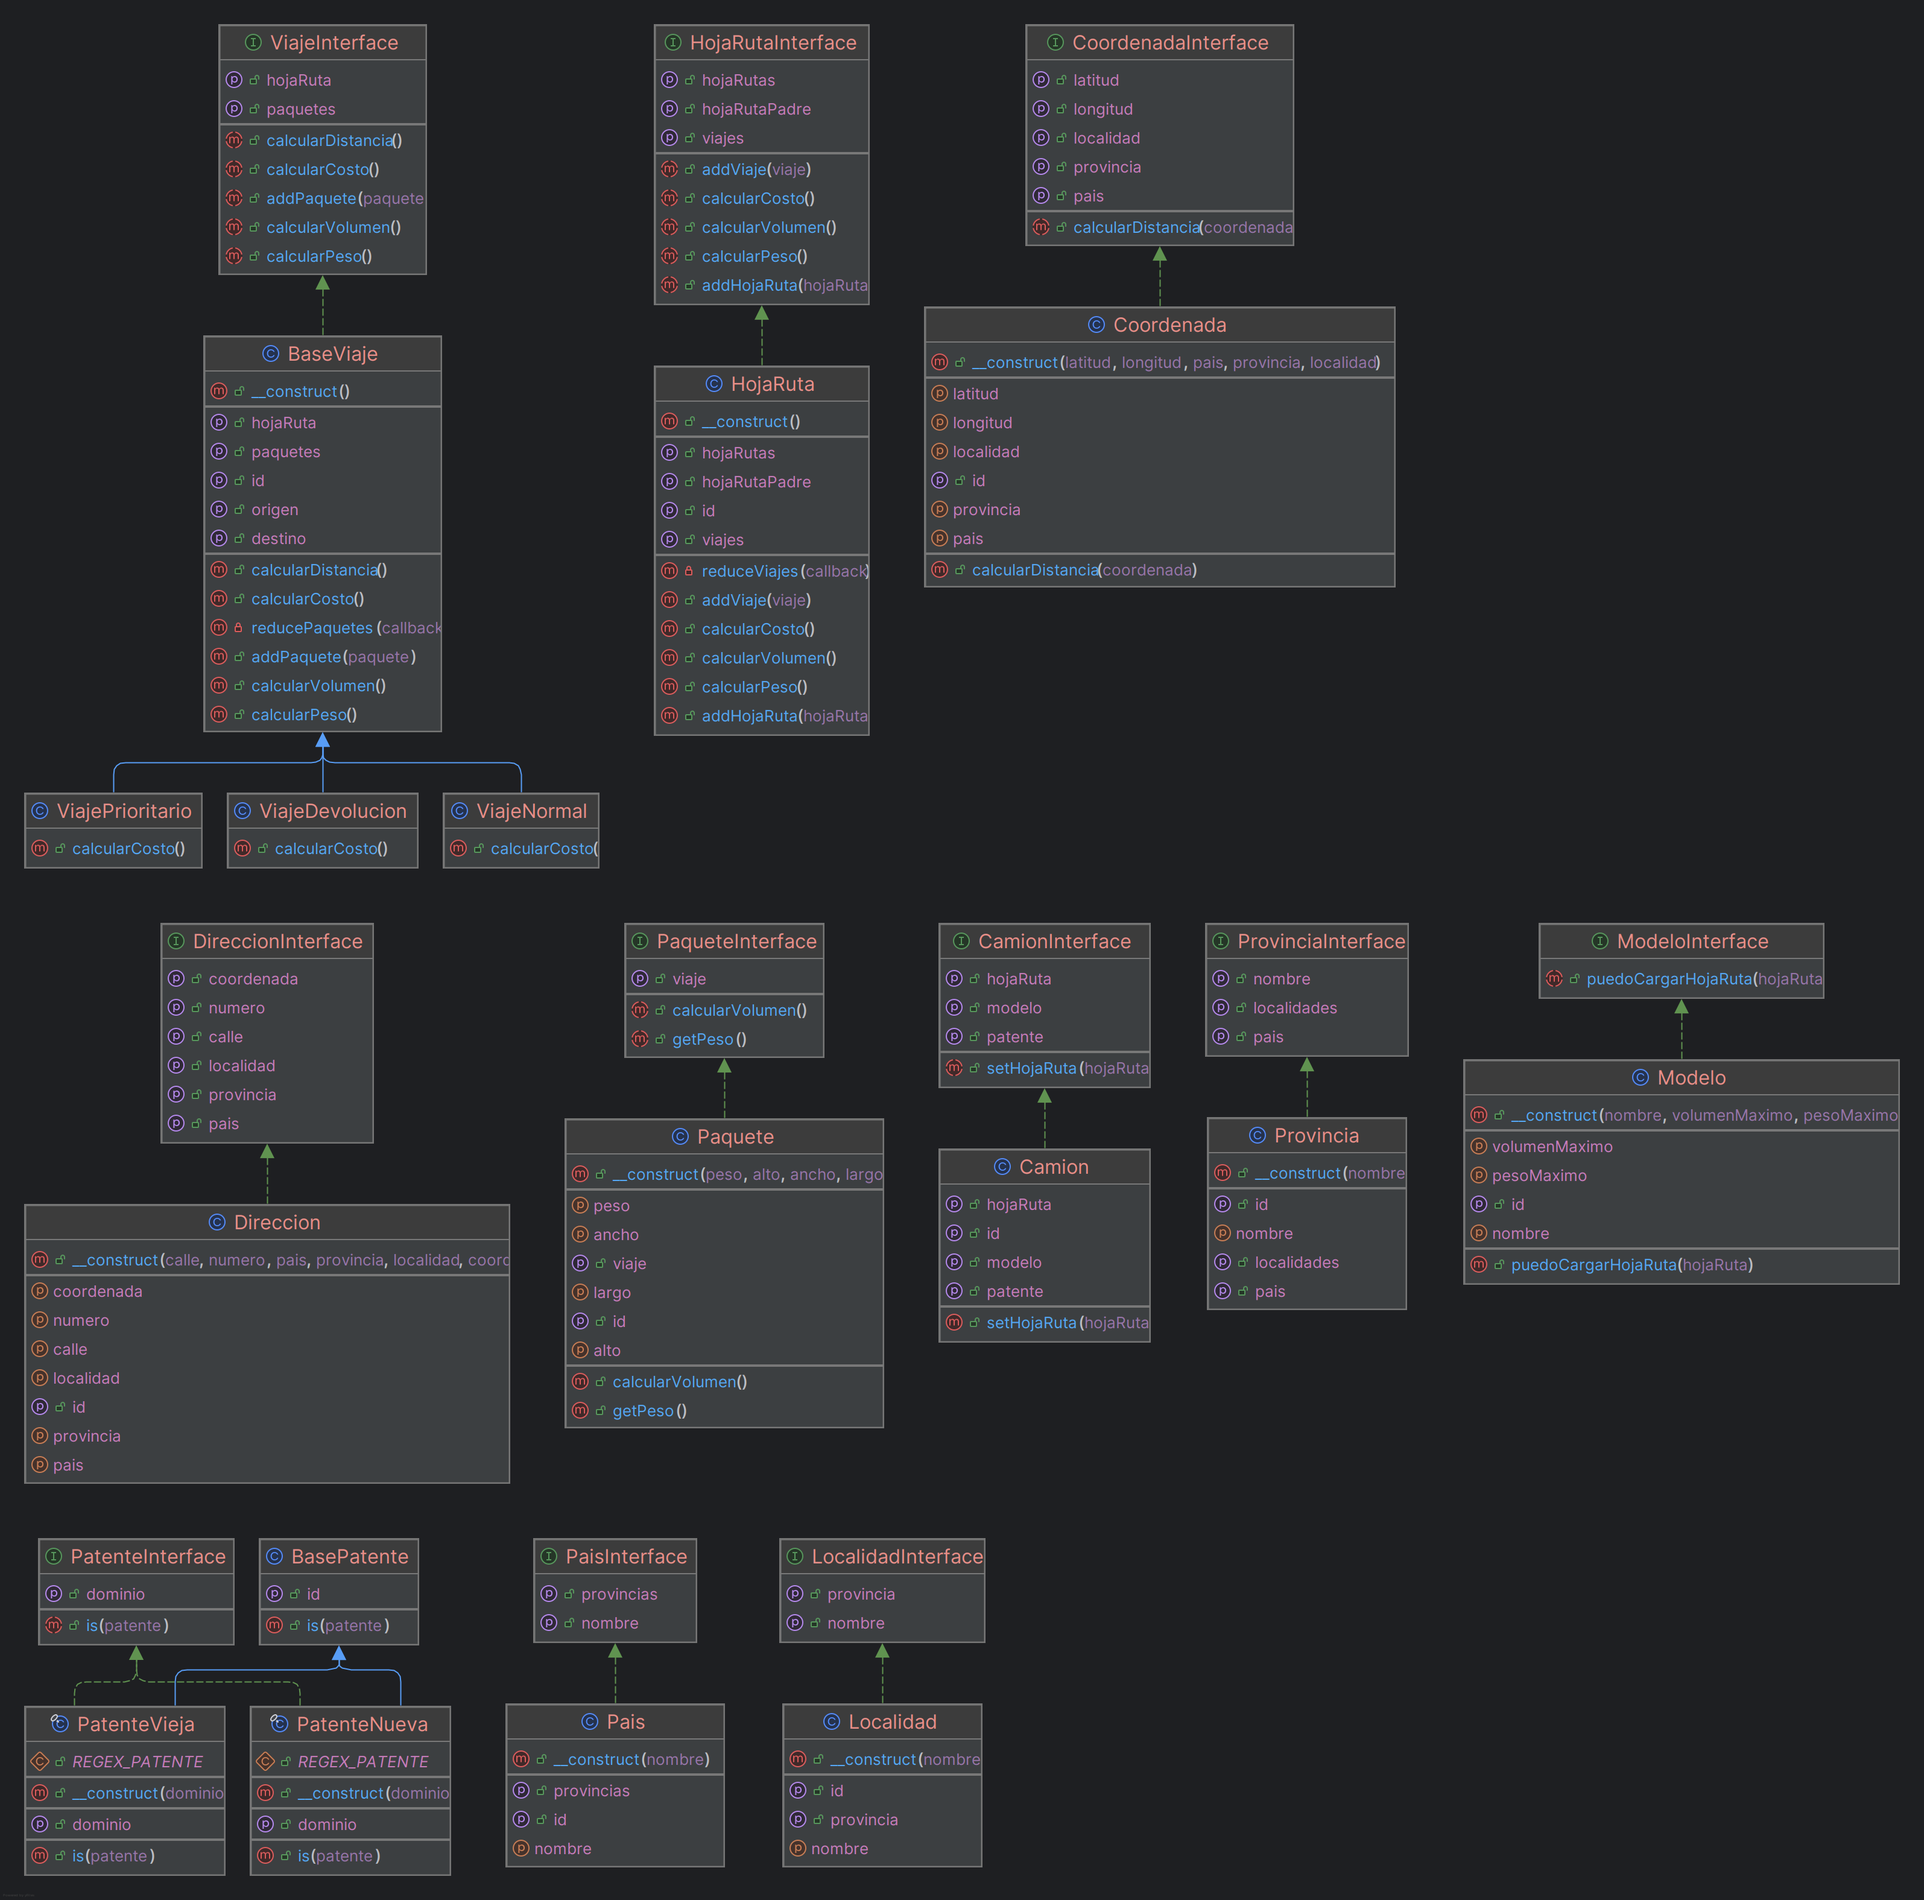
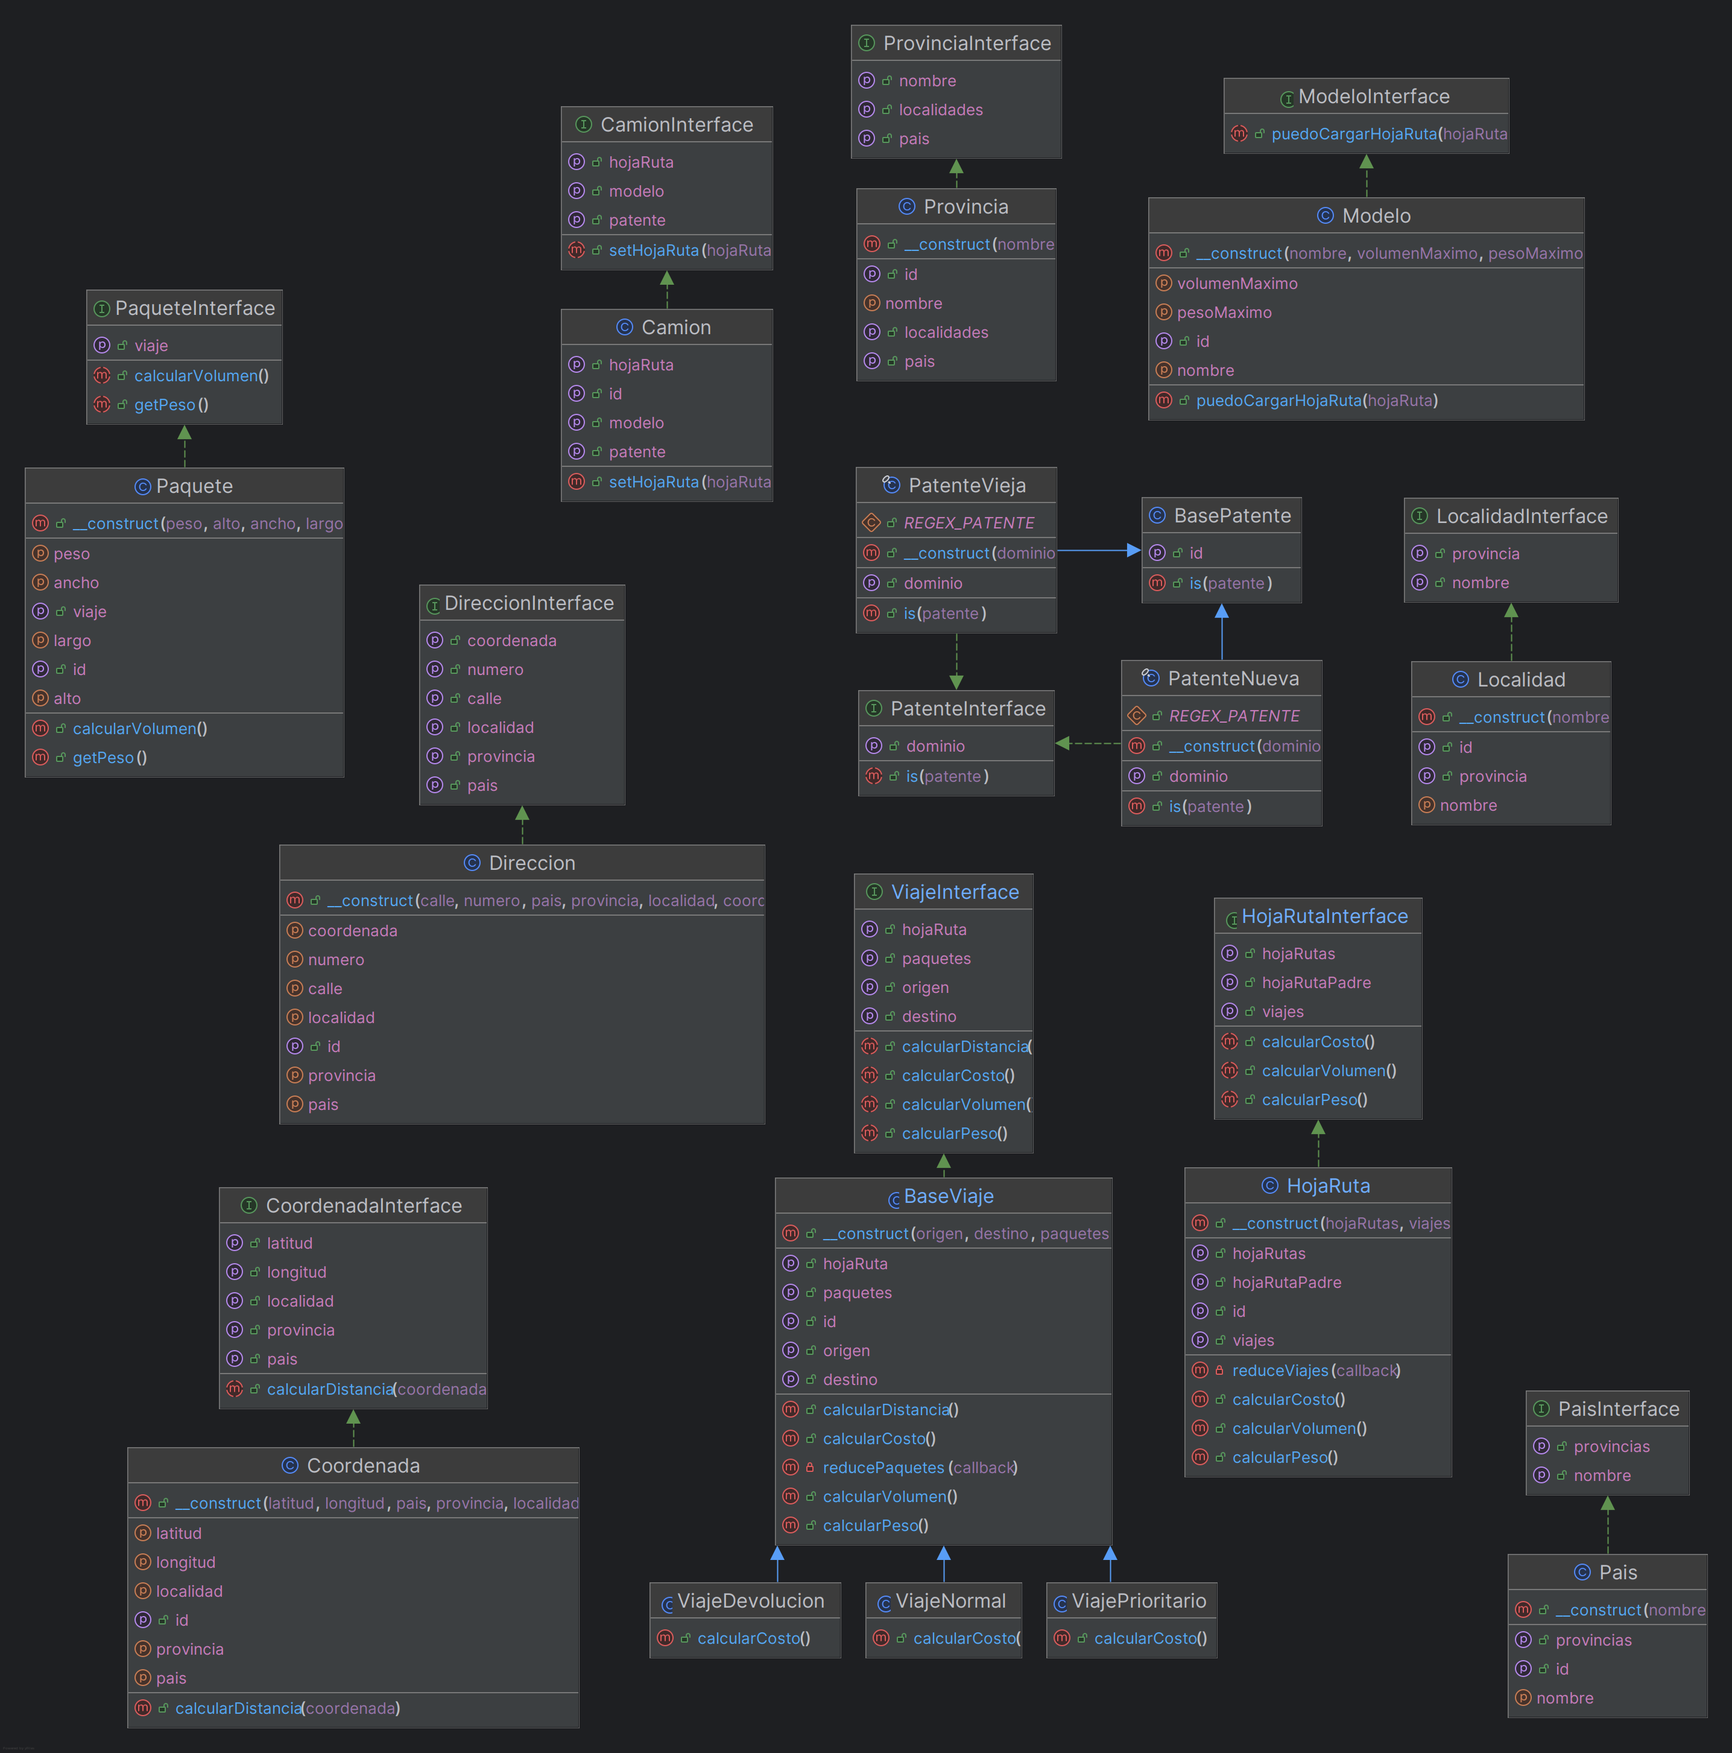
fix inmutabilidad de hoja-ruta y viaje

diff --git a/backend/api/src/Entity/Viaje/BaseViaje.php b/backend/api/src/Entity/Viaje/BaseViaje.php
@@ -56,7 +56,7 @@ class BaseViaje implements ViajeInterface
     }
 
     /**
-     * @var Collection
+     * @var ReadableCollection<int, PaqueteInterface>
      */
     #[OneToMany(targetEntity: PaqueteInterface::class, mappedBy: 'viaje')]
     private(set) ReadableCollection $paquetes {
@@ -65,6 +65,10 @@ class BaseViaje implements ViajeInterface
         }
         set {
             $this->paquetes = $value;
+
+            $this->paquetes->forAll((function(PaqueteInterface $paquete) {
+                $paquete->viaje = $this;
+            }));
         }
     }
 
@@ -72,7 +76,7 @@ class BaseViaje implements ViajeInterface
      * @var DireccionInterface|null
      */
     #[ManyToOne(targetEntity: DireccionInterface::class)]
-    public ?DireccionInterface $origen {
+    private(set) DireccionInterface $origen {
         get {
             return $this->origen;
         }
@@ -85,7 +89,7 @@ class BaseViaje implements ViajeInterface
      * @var DireccionInterface|null
      */
     #[ManyToOne(targetEntity: DireccionInterface::class)]
-    public ?DireccionInterface $destino {
+    private(set) DireccionInterface $destino {
         get {
             return $this->destino;
         }
@@ -94,22 +98,16 @@ class BaseViaje implements ViajeInterface
         }
     }
 
-    /**
-     *
-     */
-    public function __construct()
-    {
-        $this->paquetes = new ArrayCollection();
-    }
 
-    /**
-     * @param PaqueteInterface $paquete
-     * @return void
-     */
-    public function addPaquete(PaqueteInterface $paquete): void
+    public function __construct(
+        DireccionInterface $origen,
+        DireccionInterface $destino,
+        ReadableCollection $paquetes
+    )
     {
-        $this->paquetes->add($paquete);
-        $paquete->viaje = $this;
+        $this->paquetes = $paquetes;
+        $this->origen = $origen;
+        $this->destino = $destino;
     }
 
     /**
@@ -134,9 +132,9 @@ class BaseViaje implements ViajeInterface
 
     /**
      * @param \Closure $callback
-     * @return float|mixed|null
+     * @return float
      */
-    private function reducePaquetes(\Closure $callback) {
+    private function reducePaquetes(\Closure $callback): float {
         return $this->paquetes->reduce(function($sum, PaqueteInterface $paquete) use ($callback) {
             return $sum + $callback($paquete);
         }, 0.0);

diff --git a/backend/api/src/Entity/Camion/HojaRuta.php b/backend/api/src/Entity/Camion/HojaRuta.php
@@ -32,6 +32,7 @@ class HojaRuta implements HojaRutaInterface
     }
 
     /**
+     * Este no sabía si dejarlo inmutable ya que luego las hojas de rutas se agrupan
      * @var HojaRutaInterface|null
      */
     #[ManyToOne(targetEntity: HojaRutaInterface::class, inversedBy: 'hojaRutas')]
@@ -54,6 +55,9 @@ class HojaRuta implements HojaRutaInterface
         }
         set {
             $this->hojaRutas = $value;
+            $this->hojaRutas->forAll((function(HojaRutaInterface $hojaRuta) {
+                $hojaRuta->hojaRutaPadre = $this;
+            }));
         }
     }
 
@@ -67,15 +71,21 @@ class HojaRuta implements HojaRutaInterface
         }
         set {
             $this->viajes = $value;
+            $this->viajes->forAll((function(ViajeInterface $viaje) {
+                $viaje->hojaRuta = $this;
+            }));
         }
     }
 
     /**
      *
      */
-    public function __construct() {
-        $this->hojaRutas = new ArrayCollection();
-        $this->viajes = new ArrayCollection();
+    public function __construct(
+        ReadableCollection $hojaRutas,
+        ReadableCollection $viajes
+    ) {
+        $this->hojaRutas = $hojaRutas;
+        $this->viajes = $viajes;
     }
 
 
@@ -111,31 +121,12 @@ class HojaRuta implements HojaRutaInterface
 
     /**
      * @param \Closure $callback
-     * @return float|mixed|null
+     * @return float
      */
-    private function reduceViajes(\Closure $callback) {
+    private function reduceViajes(\Closure $callback): float {
         return $this->viajes->reduce(function($sum, ViajeInterface $viaje) use ($callback) {
             return $sum + $callback($viaje);
         }, 0.0);
     }
 
-    /**
-     * @param HojaRutaInterface $hojaRuta
-     * @return void
-     */
-    public function addHojaRuta(HojaRutaInterface $hojaRuta): void
-    {
-        $this->hojaRutas->add($hojaRuta);
-        $hojaRuta->hojaRutaPadre = $this;
-    }
-
-    /**
-     * @param ViajeInterface $viaje
-     * @return void
-     */
-    public function addViaje(ViajeInterface $viaje): void
-    {
-        $this->viajes->add($viaje);
-        $viaje->hojaRuta = $this;
-    }
 }

diff --git a/backend/api/src/Entity/Viaje/ViajeInterface.php b/backend/api/src/Entity/Viaje/ViajeInterface.php
@@ -15,13 +15,9 @@ interface ViajeInterface
     /**
      * @var Collection
      */
-    public ReadableCollection$paquetes { get; }
-
-    /**
-     * @param PaqueteInterface $paquete
-     * @return void
-     */
-    public function addPaquete(PaqueteInterface $paquete): void;
+    public ReadableCollection $paquetes { get; }
+    public DireccionInterface $origen { get; }
+    public DireccionInterface $destino { get; }
 
     /**
      * @return float

diff --git a/backend/api/src/Entity/Camion/HojaRutaInterface.php b/backend/api/src/Entity/Camion/HojaRutaInterface.php
@@ -36,16 +36,4 @@ interface HojaRutaInterface
      * @return float
      */
     public function calcularCosto(): float;
-
-    /**
-     * @param HojaRutaInterface $hojaRuta
-     * @return void
-     */
-    public function addHojaRuta(HojaRutaInterface $hojaRuta): void;
-
-    /**
-     * @param ViajeInterface $viaje
-     * @return void
-     */
-    public function addViaje(ViajeInterface $viaje): void;
 }
